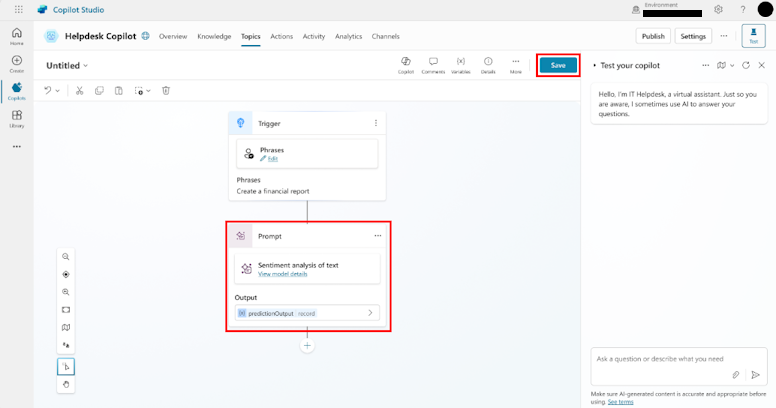
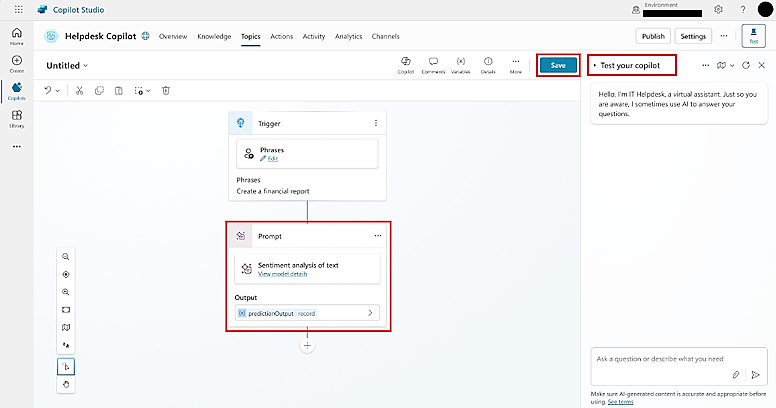
edits-mk-meeting

diff --git a/ai-builder-docs/byom-for-your-prompts.md b/ai-builder-docs/byom-for-your-prompts.md
@@ -5,11 +5,11 @@ author: MKBajwa-PM
 contributors:
   - MKBajwa-PM
   - v-aangie
-ms.topic: conceptual
+ms.topic: article
 ms.collection: 
 - overview
 - bap-ai-copilot
-ms.date: 05/06/2025
+ms.date: 05/19/2025
 ms.author: mbajwa
 ms.reviewer: angieandrews
 ---
@@ -45,7 +45,7 @@ To use this feature, create an agent in Copilot Studio for your scenario.
 After you create an agent, add a topic to it.
 
 1. In Copilot Studio, select **Topics** > **Add a topic**.
-1. Specify a trigger for your topic.
+1. Specify a trigger for your topic. (Learn more in [Add an event trigger](/microsoft-copilot-studio/authoring-trigger-event)).
 
 1. To add a node, select the plus sign (**+**).
 1. To add a prompt, select **Add an action** > **New prompt**.
@@ -61,7 +61,8 @@ After you create an agent, add a topic to it.
 
     :::image type="content" source="media/byom-for-your-prompts/connect-from.png" alt-text="Screenshot of the 'Connect model from AI foundry' option in the 'Model' field.>":::
 
-1. In the **Connect a model from Azure AI Foundry** screen, enter information about the model that you can find for your deployed model from AI Azure Foundry, and then select **Connect**.
+1. In the **Connect a model from Azure AI Foundry** screen, enter information about the model from [Azure AI Foundry / Model
+  catalog](https://ai.azure.com/explore/models?tid=72f988bf-86f1-41af-91ab-2d7cd011db47), and then select **Connect**.
 
     :::image type="content" source="media/byom-for-your-prompts/byom-connect.png" alt-text="Screenshot of the 'Connect a model from Azure AI Foundry' screen.>":::
 
@@ -69,23 +70,11 @@ After you create an agent, add a topic to it.
 
 ## Test your prompt
 
-1. Select **Test Prompt** > **Create to add** your prompt to the node.
-
-    Your prompt is now added to your topic.
-
+1. In the designer, select the **Prompt** card.
 1. To save your topic, select **Save**. You can now use it in your agent.
+1. In the Copilot panel, select **Test your Copilot** to test your prompt.
 
-    :::image type="content" source="media/byom-for-your-prompts/save-prompt-topic.png" alt-text="Screenshot of the saved topic.>":::
-
-> [!NOTE]
-> You can also access your *bring your own model* prompt in the library in Copilot Studio, Power apps, and Power Automate.
-
-## Known limitations
-
-- This feature is currently available only in the FRE region.
-- This feature works with models in Azure AI foundry with **chat completion** type.
-- This feature is available only to Environment maker or higher roles.
-- Currently, *bring your own models* works only with text and Dataverse tables.
+    :::image type="content" source="media/byom-for-your-prompts/save-prompt-topic.png" alt-text="Screenshot of the saved topic.":::
 
 > [!NOTE]
 > We recommend you apply Responsible AI (RAI) policies as applicable for the models you want to use and manage that in Azure AI Foundry.
